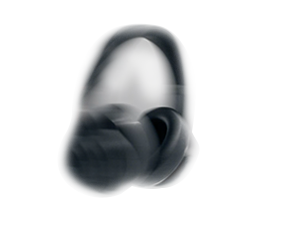
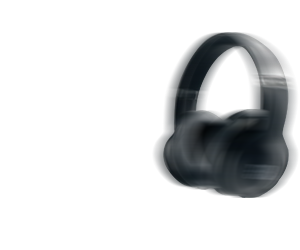
add flip effect
add flip effect

diff --git a/BN_BB/300x250/Animation.js b/BN_BB/300x250/Animation.js
@@ -55,12 +55,21 @@ home_animation = (function() {
 	function frame1()
 	{
 		// slide in
-		TweenLite.to(black_headphone_1, 0.3, {left:-98, delay:0});	
+		TweenLite.to(black_headphone_1, 0.3, {left:-98, delay:0 });	
 		TweenLite.to(wire, 0.3, {left:-98, delay:0});	
 		TweenLite.to(wire, 1, {top:300, rotation:-90, delay:0.1});
 
-		// spin
-		TweenLite.to(black_headphone_1, 0.1, {opaicty:0, delay:0});	
+		// slide in blur
+		TweenLite.to(black_headphone_2, 0.3, {left:-98, delay:0,  ease: Expo.easeOut  });
+		TweenLite.to(black_headphone_2, 0.1, {opacity:1, left:-98, delay:0.2,  ease: Expo.easeOut });
+
+		// Flip 
+		TweenLite.to(black_headphone_2, 1, {rotationY:180, left:0, delay:0.2, ease: Expo.easeOut });	
+		TweenLite.to(black_headphone_1, 1, {rotationY:180, left:0, delay:0.3, ease: Expo.easeOut });	
+
+		TweenLite.to(black_headphone_2, 0.3, {opacity:0, delay:0.4 });
+
+		//TweenLite.to(black_headphone_1, 0, {opacity:0, delay:0.2, overwrite:"none"});
 
 
 

diff --git a/BN_BB/300x250/300x250.html b/BN_BB/300x250/300x250.html
@@ -13,6 +13,9 @@
 
 	<!-- Frame one --> 
 <div id="black_headphone_1" class="position"><img src="black_headphone_1.png"></div>	
+<div id="black_headphone_2" class="position"><img src="black_headphone_2.png"></div>	
+
+
 
 <div id="wire" class="position"><img src="wire.png"></div>
 	<!-- Frame 2  -->

diff --git a/BN_BB/300x250/style.css b/BN_BB/300x250/style.css
@@ -30,7 +30,7 @@ position: absolute;
 left:0px;
 }
 
- #black_headphone_3 {
+ #black_headphone_3, #black_headphone_2{
 
 	opacity: 0;
 }
